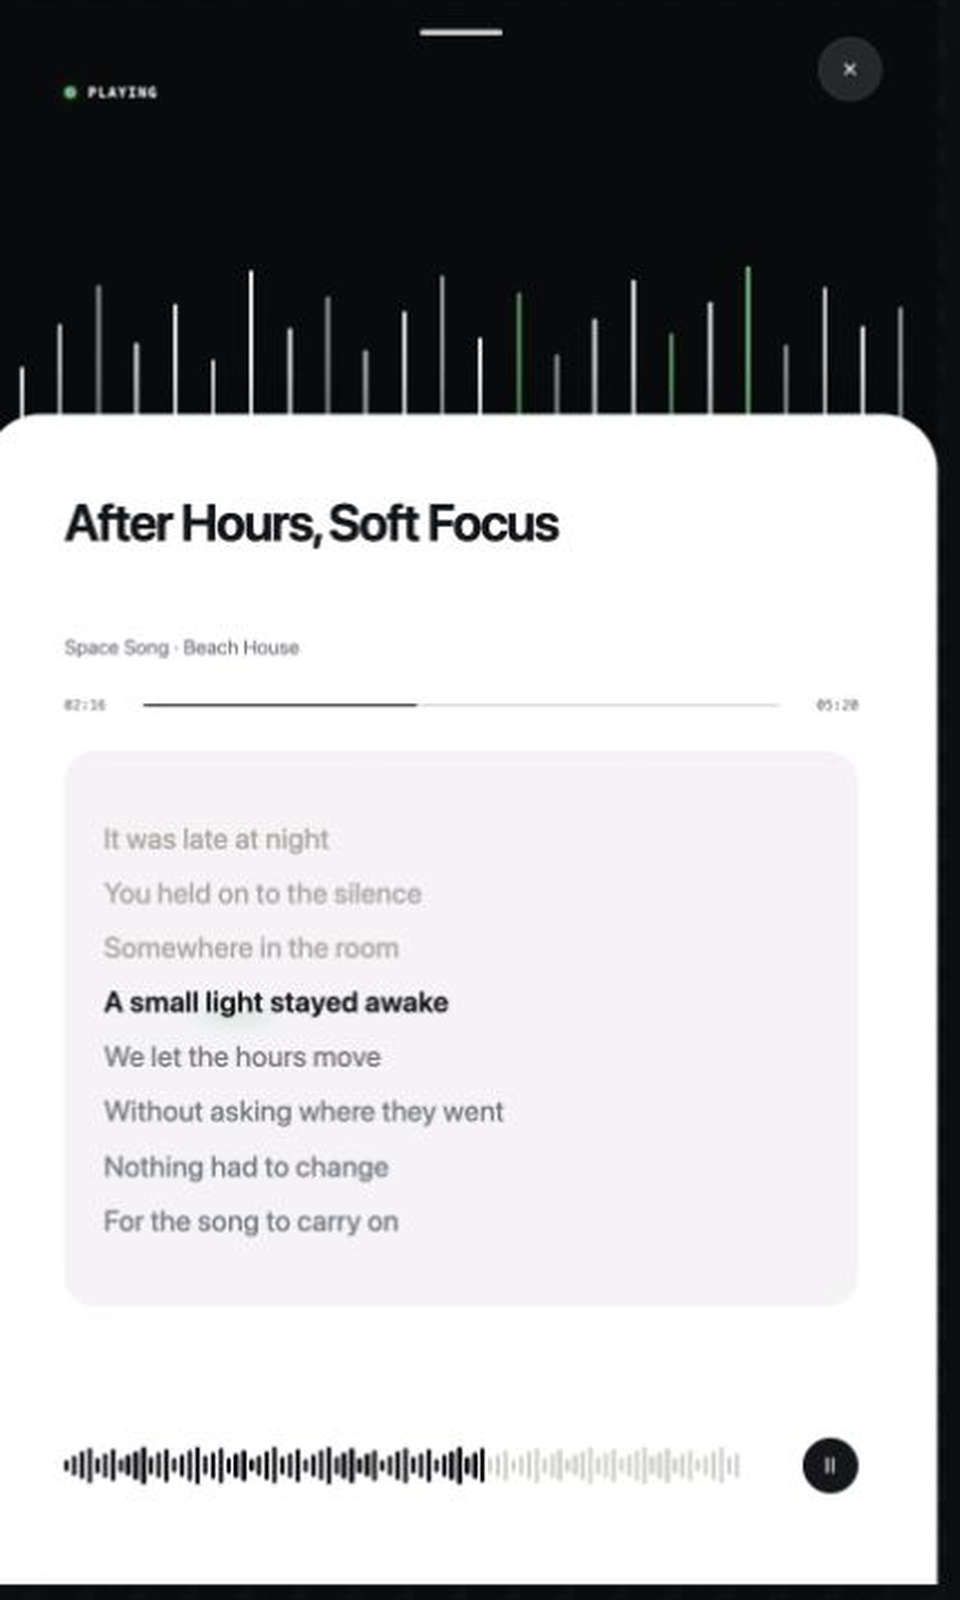
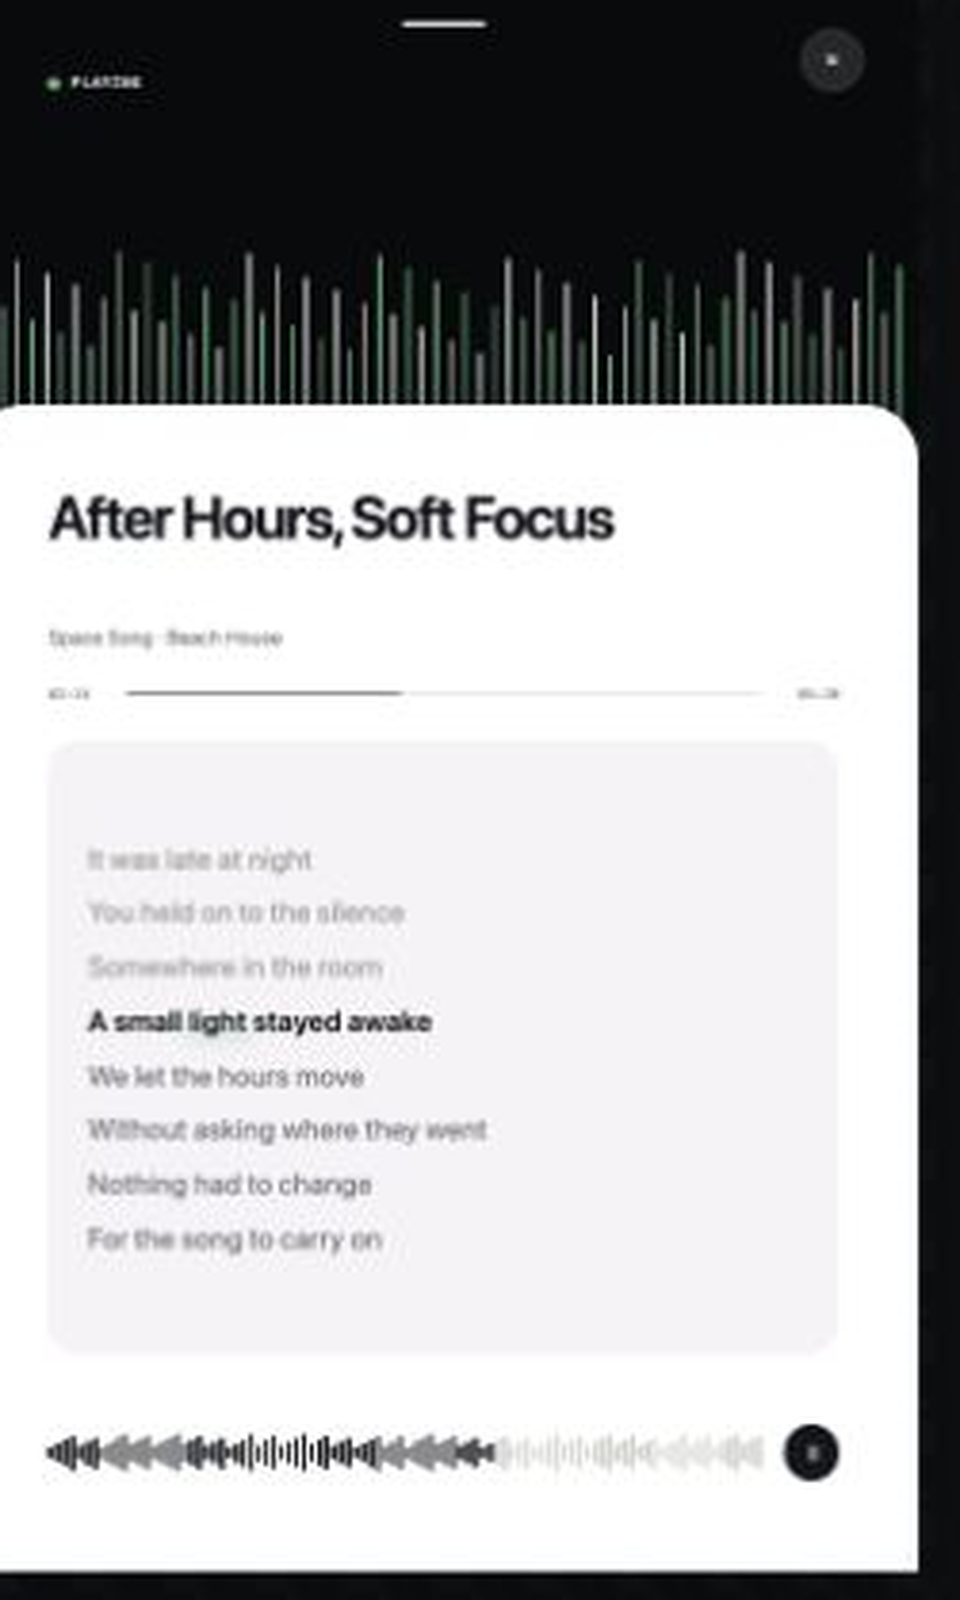
优化 VDA-05 Detail Sheet 视觉比例

diff --git a/design/assets/prototype/app.js b/design/assets/prototype/app.js
@@ -370,15 +370,15 @@
     `;
   };
 
-  const detailWaveHeights = [
-    28, 46, 62, 38, 54, 31, 68, 44, 57, 35, 51, 66,
-    40, 59, 33, 48, 64, 42, 55, 70, 37, 61, 45, 53,
-  ];
-  const detailTimelineBars = 88;
+  const detailWaveformBars = 64;
+  const detailTimelineBars = 96;
 
   const detailWaveform = () => `
     <div class="detail-waveform" aria-hidden="true">
-      ${detailWaveHeights.map((height, index) => `<span${[13, 17, 19].includes(index) ? ' class="detail-waveform__active"' : ""} style="--detail-wave-height: ${height}%"></span>`).join("")}
+      ${Array.from({ length: detailWaveformBars }, (_, index) => {
+        const height = 28 + ((index * 19) % 43);
+        return `<span${index % 2 === 1 ? ' class="detail-waveform__active"' : ""} style="--detail-wave-height: ${height}%"></span>`;
+      }).join("")}
     </div>
   `;
 

diff --git a/design/assets/prototype/styles.css b/design/assets/prototype/styles.css
@@ -1731,7 +1731,7 @@ a {
   width: var(--kr-detail-sheet-width);
   height: var(--kr-detail-wave-height);
   align-items: flex-end;
-  justify-content: space-around;
+  justify-content: space-between;
   padding: 24px 18px 0;
   overflow: hidden;
 }
@@ -1792,9 +1792,9 @@ a {
   width: var(--kr-detail-content-width);
   margin: 0;
   color: var(--kr-color-detail-text);
-  font-size: 52px;
+  font-size: var(--kr-detail-title-size);
   font-weight: 650;
-  line-height: 58px;
+  line-height: var(--kr-detail-title-line);
   letter-spacing: -0.04em;
 }
 
@@ -1941,7 +1941,7 @@ a {
   top: 1036px;
   left: 80px;
   display: flex;
-  width: 680px;
+  width: var(--kr-detail-program-width);
   height: 48px;
   align-items: center;
   gap: 3px;

diff --git a/design/assets/prototype/tokens.css b/design/assets/prototype/tokens.css
@@ -117,7 +117,10 @@
   --kr-detail-content-width: 800px;
   --kr-detail-wave-height: 280px;
   --kr-detail-paper-height: 1180px;
-  --kr-detail-copy-height: 560px;
+  --kr-detail-title-size: 60px;
+  --kr-detail-title-line: 68px;
+  --kr-detail-copy-height: 620px;
+  --kr-detail-program-width: 720px;
   --kr-detail-drag-width: 84px;
   --kr-detail-drag-height: 6px;
   --kr-detail-close-size: 64px;

diff --git a/design/assets/reports/visual-decisions.md b/design/assets/reports/visual-decisions.md
@@ -47,6 +47,7 @@
 - 推荐裁决：保留 PNG 的黑白节目气质和声波观感，HTML 使用规范固定坐标；07/08 只替换状态、歌曲和正文。
 - 影响页面：07、08；并影响 VDA-05、VDA-12、VDA-14。
 - 最终决定：已确认；采纳推荐裁决（2026-07-12）。
+- 当前状态：固定锚点继续有效；主内容卡高度与节目进度宽度已由 A-010 的用户视觉校准更新。
 - 证据截图：[Detail 双态锚点叠图](evidence/vda-00-detail-anchors.png)
 
 ### A-003
@@ -143,6 +144,19 @@
 - 最终决定：已确认；用户在 VDA-05 任务中明确要求产品行为服从 PRD，并确认按该方案实施（2026-07-13）。
 - 证据截图：[07 自动验收证据](evidence/vda-05-detail-speaking.png)、[08 自动验收证据](evidence/vda-05-detail-lyrics.png)
 
+### A-010
+
+- 编号：A-010
+- 页面与区域：07–08 Detail Sheet 顶部声波、节目标题、主内容卡与节目整体进度
+- 差异类别：视觉密度 / 固定组件比例
+- 初始 VDA-05 表现：顶部为 24 根波形柱且仅 3 根绿色活动柱；标题为 `52 / 58px`；主内容卡为 `800 × 560px`；节目整体进度宽 `680px`，与右侧按钮间距 `64px`。
+- 用户反馈：顶部声波密度不足并要求逐根绿白交替；歌词卡纵向长度不足；节目标题偏小导致顶部空旷；底部波形与右侧按钮间距过大。
+- 严重级别：A
+- 推荐裁决：07/08 共用 64 柱交替绿白波形；标题改为 `60 / 68px`；主内容卡改为 `800 × 620px`；节目整体进度改为 `720px`，与按钮保持 `24px` 间距；不改变其余固定锚点、内容层级和交互语义。
+- 影响页面：07、08；并影响 `design/design.md`、`design/prompt.md`、Detail Tokens、VDA-12、VDA-14。
+- 最终决定：已确认；用户通过浏览器评论明确要求按上述方向校准，权威规范已先行同步（2026-07-13）。
+- 证据截图：[07 校准后自动验收证据](evidence/vda-05-detail-speaking.png)、[08 校准后自动验收证据](evidence/vda-05-detail-lyrics.png)
+
 ## B 级｜按页面族批量确认
 
 ### B-001
@@ -221,7 +235,7 @@
 - 页面与区域：波形具体柱形与纸面颗粒
 - 差异类别：随机视觉细节
 - PNG 表现：每张图的柱高和纹理不同。
-- 规范要求：波形表达状态，PLAYING 使用 12–24 根竖条；Detail 以白灰为主且少量绿色；Reduce Motion 下停止动画。
+- 规范要求：波形表达状态，常规 PLAYING 使用 12–24 根竖条；Detail 按 A-010 使用 64 根逐根绿白交替竖条；Reduce Motion 下停止动画。
 - 严重级别：C
 - 推荐裁决：实现共享状态波形规则，不逐像素复刻随机柱高或纹理。
 - 影响页面：01、05–08、10。
@@ -345,9 +359,9 @@
 
 - 状态：2026-07-13 已完成 HTML、CSS、固定 fixture、自动验收与视觉裁决记录；核心体验确认门通过。
 - 范围：建立 07 Detail Sheet DJ 串讲与 08 Detail Sheet 歌词跟随的 Dark HTML 视觉页面；两态复用同一全屏渲染器、Detail Tokens 和固定骨架，只替换状态词、歌曲文案、歌曲进度与主内容卡文字。09–15 保持 VDA-01 骨架，不生成 Light、响应式或正式基线截图。
-- A / B 级差异：A-002 按已确认方案执行，浅色节目面、声波区、主内容卡和节目进度使用规范固定锚点；新增 A-009 记录 PNG 双暂停入口与 PRD 单一入口的语义差异，并按用户当前任务指令关闭。未发现新增 B 级差异或未关闭的 A / B 级差异。
-- C 级裁决：C-001 统一使用 `#090A0C` 深色声场、`#FFFFFF` 节目面、`#F5F3F6` 内容卡与弱 Sheet 阴影；C-003 顶部状态波形使用共享 24 柱确定性几何、白灰为主且仅 3 根绿色活动柱，节目进度使用确定性细柱，不逐像素追随 PNG 随机柱高；C-004 使用固定内容列、`40px` 卡片内边距和 4px 网格；C-005 复用系统字体与线性关闭/暂停图标，不新增装饰字体或图标族。纸面颗粒和当前词绿色柔光保持极弱，不改变文本层级。
-- 结构实测：07/08 均为 `x 0 / y 0 / 960 × 1600px`；拖动条 `x 438 / y 32 / 84 × 6px`；关闭按钮 `x 840 / y 40 / 64 × 64px`；状态区 `x 80 / y 76 / 720 × 40px`；声波区 `x 0 / y 160 / 960 × 280px`；节目面 `x 0 / y 420 / 960 × 1180px`；标题 `x 80 / y 500 / w 800px`；歌曲进度 `x 80 / y 700 / 800 × 28px`；主内容卡 `x 80 / y 760 / 800 × 560px`；节目进度 `x 80 / y 1456 / 680 × 48px`；唯一播放/暂停按钮 `x 824 / y 1452 / 56 × 56px`。两态所有共享锚点的位置与尺寸差为 `0px`。
-- 自动验收：JavaScript 语法、Git whitespace、文件格式和 PNG `960 × 1600px` 检查通过；浏览器验证固定文案、两态零位移、无画布溢出、无禁用组件、仅一个播放/暂停入口、两个按钮命中区分别为 `64 × 64px` 与 `56 × 56px`、`dialog` / `aria-modal` / `aria-live` / progressbar 结构、Reduce Motion 规则与控制台无 warning/error。标题、歌曲信息、当前行和未播放行对比度分别为 `18.11:1`、`4.78:1`、`16.42:1`、`3.91:1`。
+- A / B 级差异：A-002 按已确认方案执行固定全屏骨架；A-009 记录 PNG 双暂停入口与 PRD 单一入口的语义差异；A-010 记录用户对顶部波形密度、标题字号、主卡高度和底部波形长度的浏览器反馈，并在先更新权威规范后关闭。未发现新增 B 级差异或未关闭的 A / B 级差异。
+- C 级裁决：C-001 统一使用 `#090A0C` 深色声场、`#FFFFFF` 节目面、`#F5F3F6` 内容卡与弱 Sheet 阴影；C-003 在 A-010 指定数量与交替色之外继续使用共享确定性柱高，节目进度扩展为 96 根确定性细柱，不逐像素追随 PNG 随机柱高；C-004 使用固定内容列、`40px` 卡片内边距和 4px 网格；C-005 复用系统字体与线性关闭/暂停图标，不新增装饰字体或图标族。纸面颗粒和当前词绿色柔光保持极弱，不改变文本层级。
+- 结构实测：07/08 均为 `x 0 / y 0 / 960 × 1600px`；拖动条 `x 438 / y 32 / 84 × 6px`；关闭按钮 `x 840 / y 40 / 64 × 64px`；状态区 `x 80 / y 76 / 720 × 40px`；64 柱交替绿白声波区 `x 0 / y 160 / 960 × 280px`；节目面 `x 0 / y 420 / 960 × 1180px`；标题 `x 80 / y 500 / w 800px`、`60 / 68px`；歌曲进度 `x 80 / y 700 / 800 × 28px`；主内容卡 `x 80 / y 760 / 800 × 620px`；节目进度 `x 80 / y 1456 / 720 × 48px`；唯一播放/暂停按钮 `x 824 / y 1452 / 56 × 56px`，两者间距 `24px`。两态所有共享锚点的位置与尺寸差为 `0px`。
+- 自动验收：JavaScript 语法、Git whitespace、文件格式和 PNG `960 × 1600px` 检查通过；浏览器验证两态均为 64 根波形柱、32 根绿色柱逐根交替，标题字号和行高、主卡尺寸、节目进度宽度及按钮间距均与规范一致；固定文案与单一播放控制保持不变，无禁用组件、无禁用控件回流、无画布溢出，两态共享锚点差为 `0px`。既有 `dialog` / `aria-modal` / `aria-live` / progressbar 与 Reduce Motion 结构保持不变。标题、歌曲信息、当前行和未播放行对比度分别为 `18.11:1`、`4.78:1`、`16.42:1`、`3.91:1`。
 - QA 证据：[07 DJ 串讲](evidence/vda-05-detail-speaking.png)、[08 歌词跟随](evidence/vda-05-detail-lyrics.png)。两张图是自动验收派生产物，不是 VDA-14 正式基线。
 - 已知后续范围：规范指定的已读文本 `#A8A7A1` 在 `#F5F3F6` 上实测 `2.19:1`；VDA-05 保持明确视觉规范，不在页面族任务中静默改色，最终 WCAG 处理纳入 VDA-13。Light 独立校准属于 VDA-10，Detail 响应式代表页属于 VDA-12，正式 Dark / Light 基线与逐页视觉 QA 属于 VDA-14。

diff --git a/design/design.md b/design/design.md
@@ -1258,9 +1258,11 @@ Detail Sheet 是当前节目的全屏沉浸界面，而不是覆盖在 Radio 页
 * 声波区：`x 0 / y 160 / w 960 / h 280`
 * 浅色节目面：`x 0 / y 420 / w 960 / h 1180`，顶部圆角 `56px`
 * 节目面内容列：`x 80 / w 800`
-* 串讲词/歌词卡片：`x 80 / y 760 / w 800 / h 560`，圆角 `32px`
-* 节目整体进度条：`x 80 / y 1456 / w 680 / h 48`
+* 节目单名称：`x 80 / y 500 / w 800`，字号 `60px`，行高 `68px`
+* 串讲词/歌词卡片：`x 80 / y 760 / w 800 / h 620`，圆角 `32px`
+* 节目整体进度条：`x 80 / y 1456 / w 720 / h 48`
 * 单一播放/暂停按钮：约 `x 824 / y 1452 / w 56 / h 56`
+* 声波区使用 `64` 根确定性竖条，从左至右逐根以白灰与状态绿交替
 
 色面：
 
@@ -1395,7 +1397,7 @@ transition:
 
 #### PLAYING
 
-* 使用 12–24 根竖条
+* 常规播放组件使用 12–24 根竖条；Detail Sheet 使用 64 根竖条
 * 高度随播放状态变化
 * 不要求与真实频谱完全同步
 * 最大高度差不超过容器高度的 70%
@@ -1725,8 +1727,8 @@ export default {
 | 04 | Radio 空节目状态 | `x 72 / w 816` Radio rail；输入框 `x 72 / y 1372 / w 816 / h 88` | `● LIVE`，不显示 `ON AIR`；导航选中 Radio | 固定顶部品牌与头像、固定时间区、`NOW PLAYING`、`NO SESSION ON AIR`、`QUEUE · 0 TRACKS`、`816 × 64px` DJ 状态栏、`816 × 224px` dialogue well、固定场景输入框；输入框下方不显示状态文字 |
 | 05 | Radio 正在播放 | 与 04 共用同一套 Radio slot；播放器、队列、DJ 状态栏、dialogue well 和输入框同宽 | `● ON AIR`；DJ 状态 `PLAYING`；导航选中 Radio | `816 × 408px` 当前播放器、132px 小封面、歌曲信息、进度 `01:42 / 02:35`、96px 圆形暂停按钮、816px 队列 4 首、当前曲目 2px 绿色状态线、DJ 自然段串讲、用户弱气泡、固定场景输入框 |
 | 06 | Radio 生成节目中 | 与 04 共用同一套 Radio slot；骨架队列、DJ 状态栏、dialogue well 和输入框同宽 | 时间区状态 `TUNING`；DJ 状态 `THINKING`；导航选中 Radio | `PREPARING SESSION`、`TUNING YOUR STATION...`、`640 × 72px` 中性色低速波形、816px 队列骨架、用户原始输入、`Tuning your station...`、固定禁用输入框内显示 `Generating...`；输入框下方不显示步骤摘要 |
-| 07 | Detail Sheet：DJ 串讲 | `x 0 / y 0 / w 960 / h 1600` 全屏沉浸节目界面；浅色节目面内 `x 80 / w 800` | `● SPEAKING NOW`；无底部导航 | 顶部 `84 × 6px` 拖动条、`64 × 64px` 关闭按钮、全宽声波区、纯白节目面、节目标题、`If · Bread`、歌曲进度、`800 × 560px` 串讲词卡片、节目整体进度、单一播放/暂停 |
-| 08 | Detail Sheet：歌词跟随 | 与 07 共用同一套全屏固定骨架 | `● PLAYING`；无底部导航 | 全宽声波区、纯白节目面、节目标题、`Space Song · Beach House`、歌曲进度、`800 × 560px` 歌词卡片、当前歌词高亮、节目整体进度、单一播放/暂停 |
+| 07 | Detail Sheet：DJ 串讲 | `x 0 / y 0 / w 960 / h 1600` 全屏沉浸节目界面；浅色节目面内 `x 80 / w 800` | `● SPEAKING NOW`；无底部导航 | 顶部 `84 × 6px` 拖动条、`64 × 64px` 关闭按钮、64 柱交替绿白全宽声波区、纯白节目面、60px 节目标题、`If · Bread`、歌曲进度、`800 × 620px` 串讲词卡片、720px 节目整体进度、单一播放/暂停 |
+| 08 | Detail Sheet：歌词跟随 | 与 07 共用同一套全屏固定骨架 | `● PLAYING`；无底部导航 | 64 柱交替绿白全宽声波区、纯白节目面、60px 节目标题、`Space Song · Beach House`、歌曲进度、`800 × 620px` 歌词卡片、当前歌词高亮、720px 节目整体进度、单一播放/暂停 |
 | 09 | Library 音乐库 | `840px` 单列管理页 | 导航选中 Library | 标题“音乐库”、副标题、本地音乐数量、搜索框、5 条搜索结果、试听图标、加入候选池按钮、导入网易云歌单卡片、服务状态 `CONNECTED`、已导入来源 |
 | 10 | Taste 品味档案 | `840px` 单列管理页 | 导航选中 Taste | 标题“你的音乐品味”、编辑品味按钮、品味概览摘要、极简圆环或线性分布、10–12 个常听风格标签、喜欢的声音、避雷规则、场景偏好、最近反馈 |
 | 11 | Taste 编辑状态 | `840px` 单列编辑页 | 二级编辑态，底部固定操作区优先 | 返回箭头、标题“编辑音乐品味”、上次更新时间、风格标签编辑、避雷规则输入行、场景规则卡片、Ghost 按钮“取消”、主按钮“保存品味”、数量限制说明 |

diff --git a/design/assets/reports/visual-audit.md b/design/assets/reports/visual-audit.md
@@ -104,11 +104,11 @@
 
 ## 6. 差异汇总
 
-- A 级：VDA-00 记录 8 组，编号为 `A-001`–`A-008`；VDA-05 新增并关闭 `A-009`，记录 PNG 双暂停入口与 PRD 单一入口的交互语义差异。
+- A 级：VDA-00 记录 8 组，编号为 `A-001`–`A-008`；VDA-05 新增并关闭 `A-009`；后续浏览器反馈新增并关闭 `A-010`，记录 Detail Sheet 的视觉密度与固定组件比例校准。
 - B 级：3 组，编号见 `B-001`–`B-003`。
 - C 级：5 条自动裁决规则，编号见 `C-001`–`C-005`。
 
-A-001–A-008 与 B-001–B-003 已于 2026-07-12 统一关闭；A-009 已于 2026-07-13 按用户 VDA-05 任务指令关闭。产品语义与字段服从 PRD / User Flow，明确几何和组件规格服从 `design/design.md`，PNG 只保留未被规范覆盖的视觉气质。没有修改权威文档，也没有按 PNG 静默覆盖规范。
+A-001–A-008 与 B-001–B-003 已于 2026-07-12 统一关闭；A-009 与 A-010 已于 2026-07-13 按用户 VDA-05 任务指令和浏览器反馈关闭。产品语义与字段服从 PRD / User Flow，A-010 的几何和视觉规格已先同步至 `design/design.md` 与 `design/prompt.md`，PNG 只保留未被规范覆盖的视觉气质，没有按实现便利静默覆盖规范。
 
 ## 7. 资产差距与后续依赖
 

diff --git a/design/tasks/visual-assets.md b/design/tasks/visual-assets.md
@@ -2,7 +2,7 @@
 
 > Phase: Pre-development visual design
 >
-> Status: VDA-05 已完成并通过自动验收；核心体验确认门已通过
+> Status: VDA-05 已完成浏览器反馈校准并通过自动验收；核心体验确认门已通过
 >
 > Scope: 设计资产沉淀与视觉验收，不包含产品开发
 >
@@ -142,7 +142,7 @@ design/assets/
 | VDA-03 | 已完成 | 异常与 Profile 01–03 | VDA-02 | 统一品牌、头像、表单、按钮和隐私说明 |
 | VDA-04 | 已完成 | Radio 三态 04–06 | VDA-02 | 三态复用同一骨架，固定区域无位移 |
 | VDA-02–04 尺度补正 | 已完成 | Tokens、组件目录与 01–06 尺度校准 | VDA-04 | 新尺度、1:1 对比与共享几何通过用户视觉验收 |
-| VDA-05 | 已完成 | Detail Sheet 07–08 | VDA-02–04 尺度补正 | 双状态复用同一全屏骨架；通过核心体验确认门 |
+| VDA-05 | 已完成 | Detail Sheet 07–08 | VDA-02–04 尺度补正 | 双状态复用同一全屏骨架；浏览器反馈校准与核心体验确认门均通过 |
 | VDA-06 | 待开始 | Library 09 | VDA-02 | 完成列表、导入、空态、无结果和服务异常 |
 | VDA-07 | 待开始 | Taste 10–11 | VDA-02 | 完成概览、编辑、标签、规则和固定操作区 |
 | VDA-08 | 待开始 | Programs 12–13 | VDA-02 | 完成节目列表、详情、队列和复用入口 |

diff --git a/README.md b/README.md
@@ -49,7 +49,7 @@ Koradio 是一个面向单台设备的私人 AI 音乐电台。
 - [x] 异常与 Profile 01–03 Dark HTML 视觉页面已建立（VDA-03 已完成）
 - [x] Radio 三态 04–06 Dark HTML 视觉页面已建立（VDA-04 已完成）
 - [x] VDA-02–04 尺度补正已完成自动检查与用户视觉验收；共享组件尺度确认点已关闭
-- [x] Detail Sheet 07–08 Dark HTML 视觉页面已建立（VDA-05 已完成）
+- [x] Detail Sheet 07–08 Dark HTML 视觉页面已建立，并完成浏览器反馈视觉校准（VDA-05 已完成）
 - [x] 01–08、共享组件尺度与 Detail Sheet 双态已通过核心体验确认门
 - [ ] 其余 7 个页面的完整 HTML 视觉基线尚未建立
 - [ ] Monorepo 尚未创建